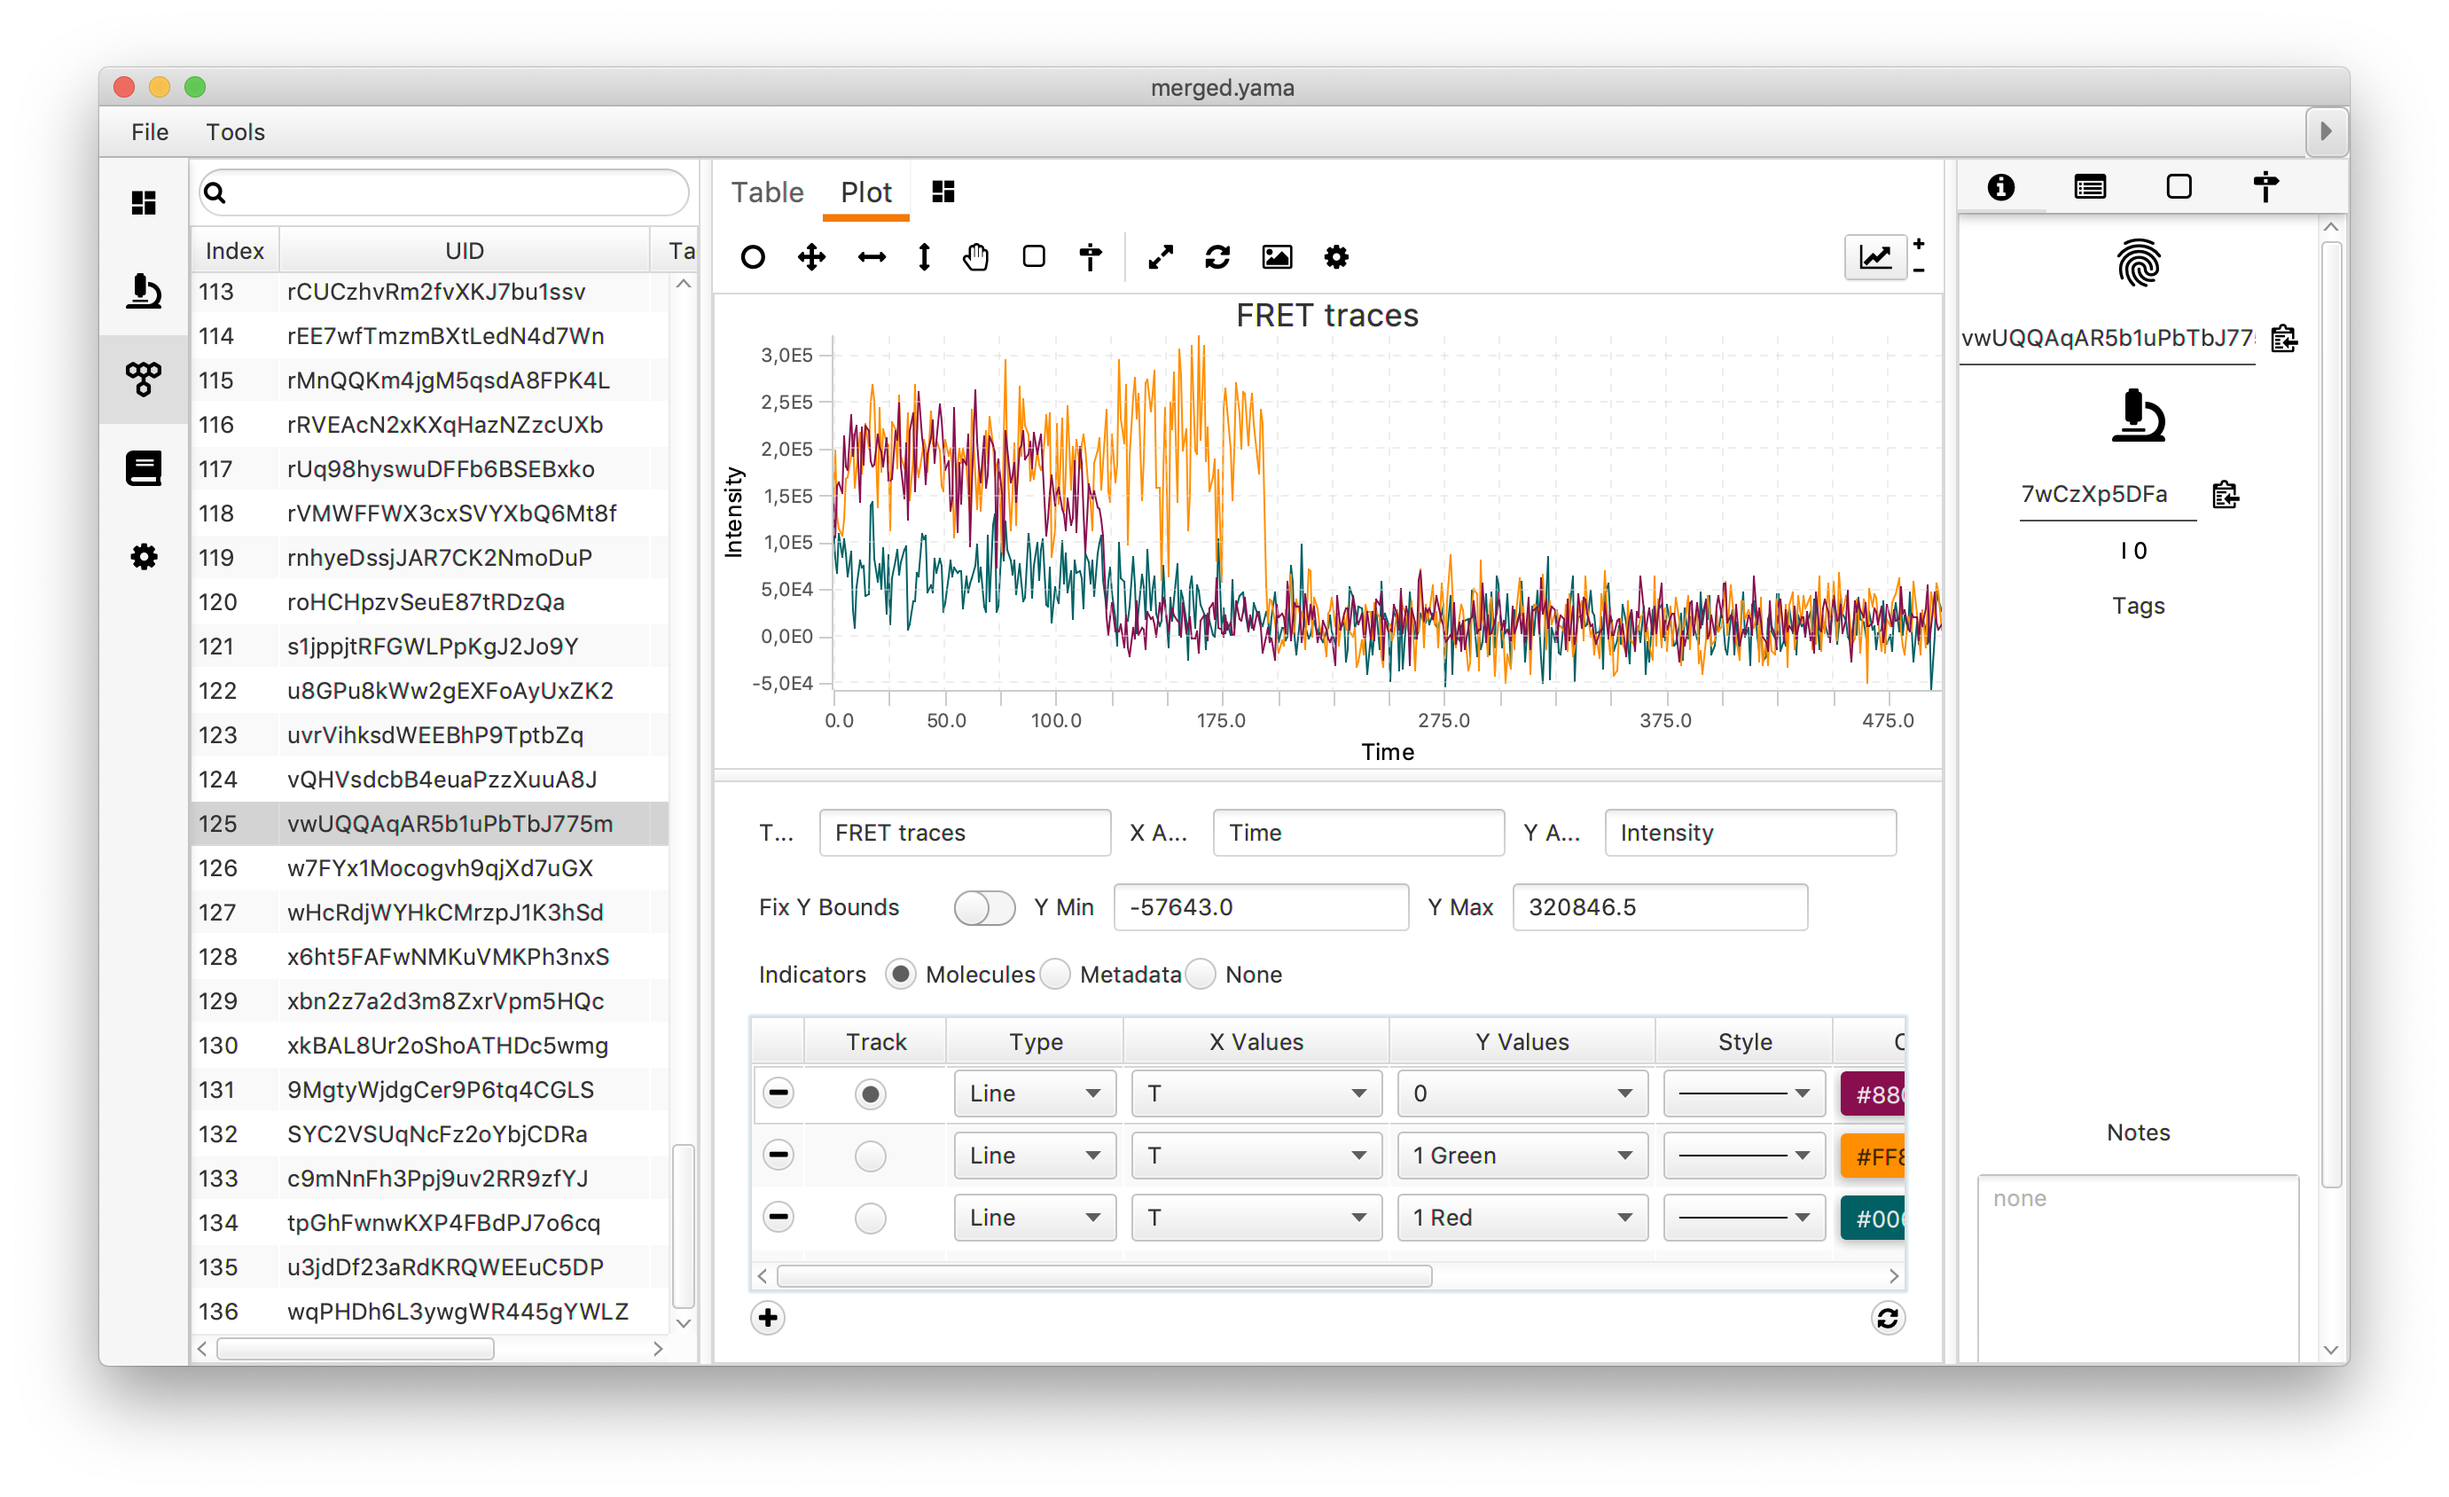
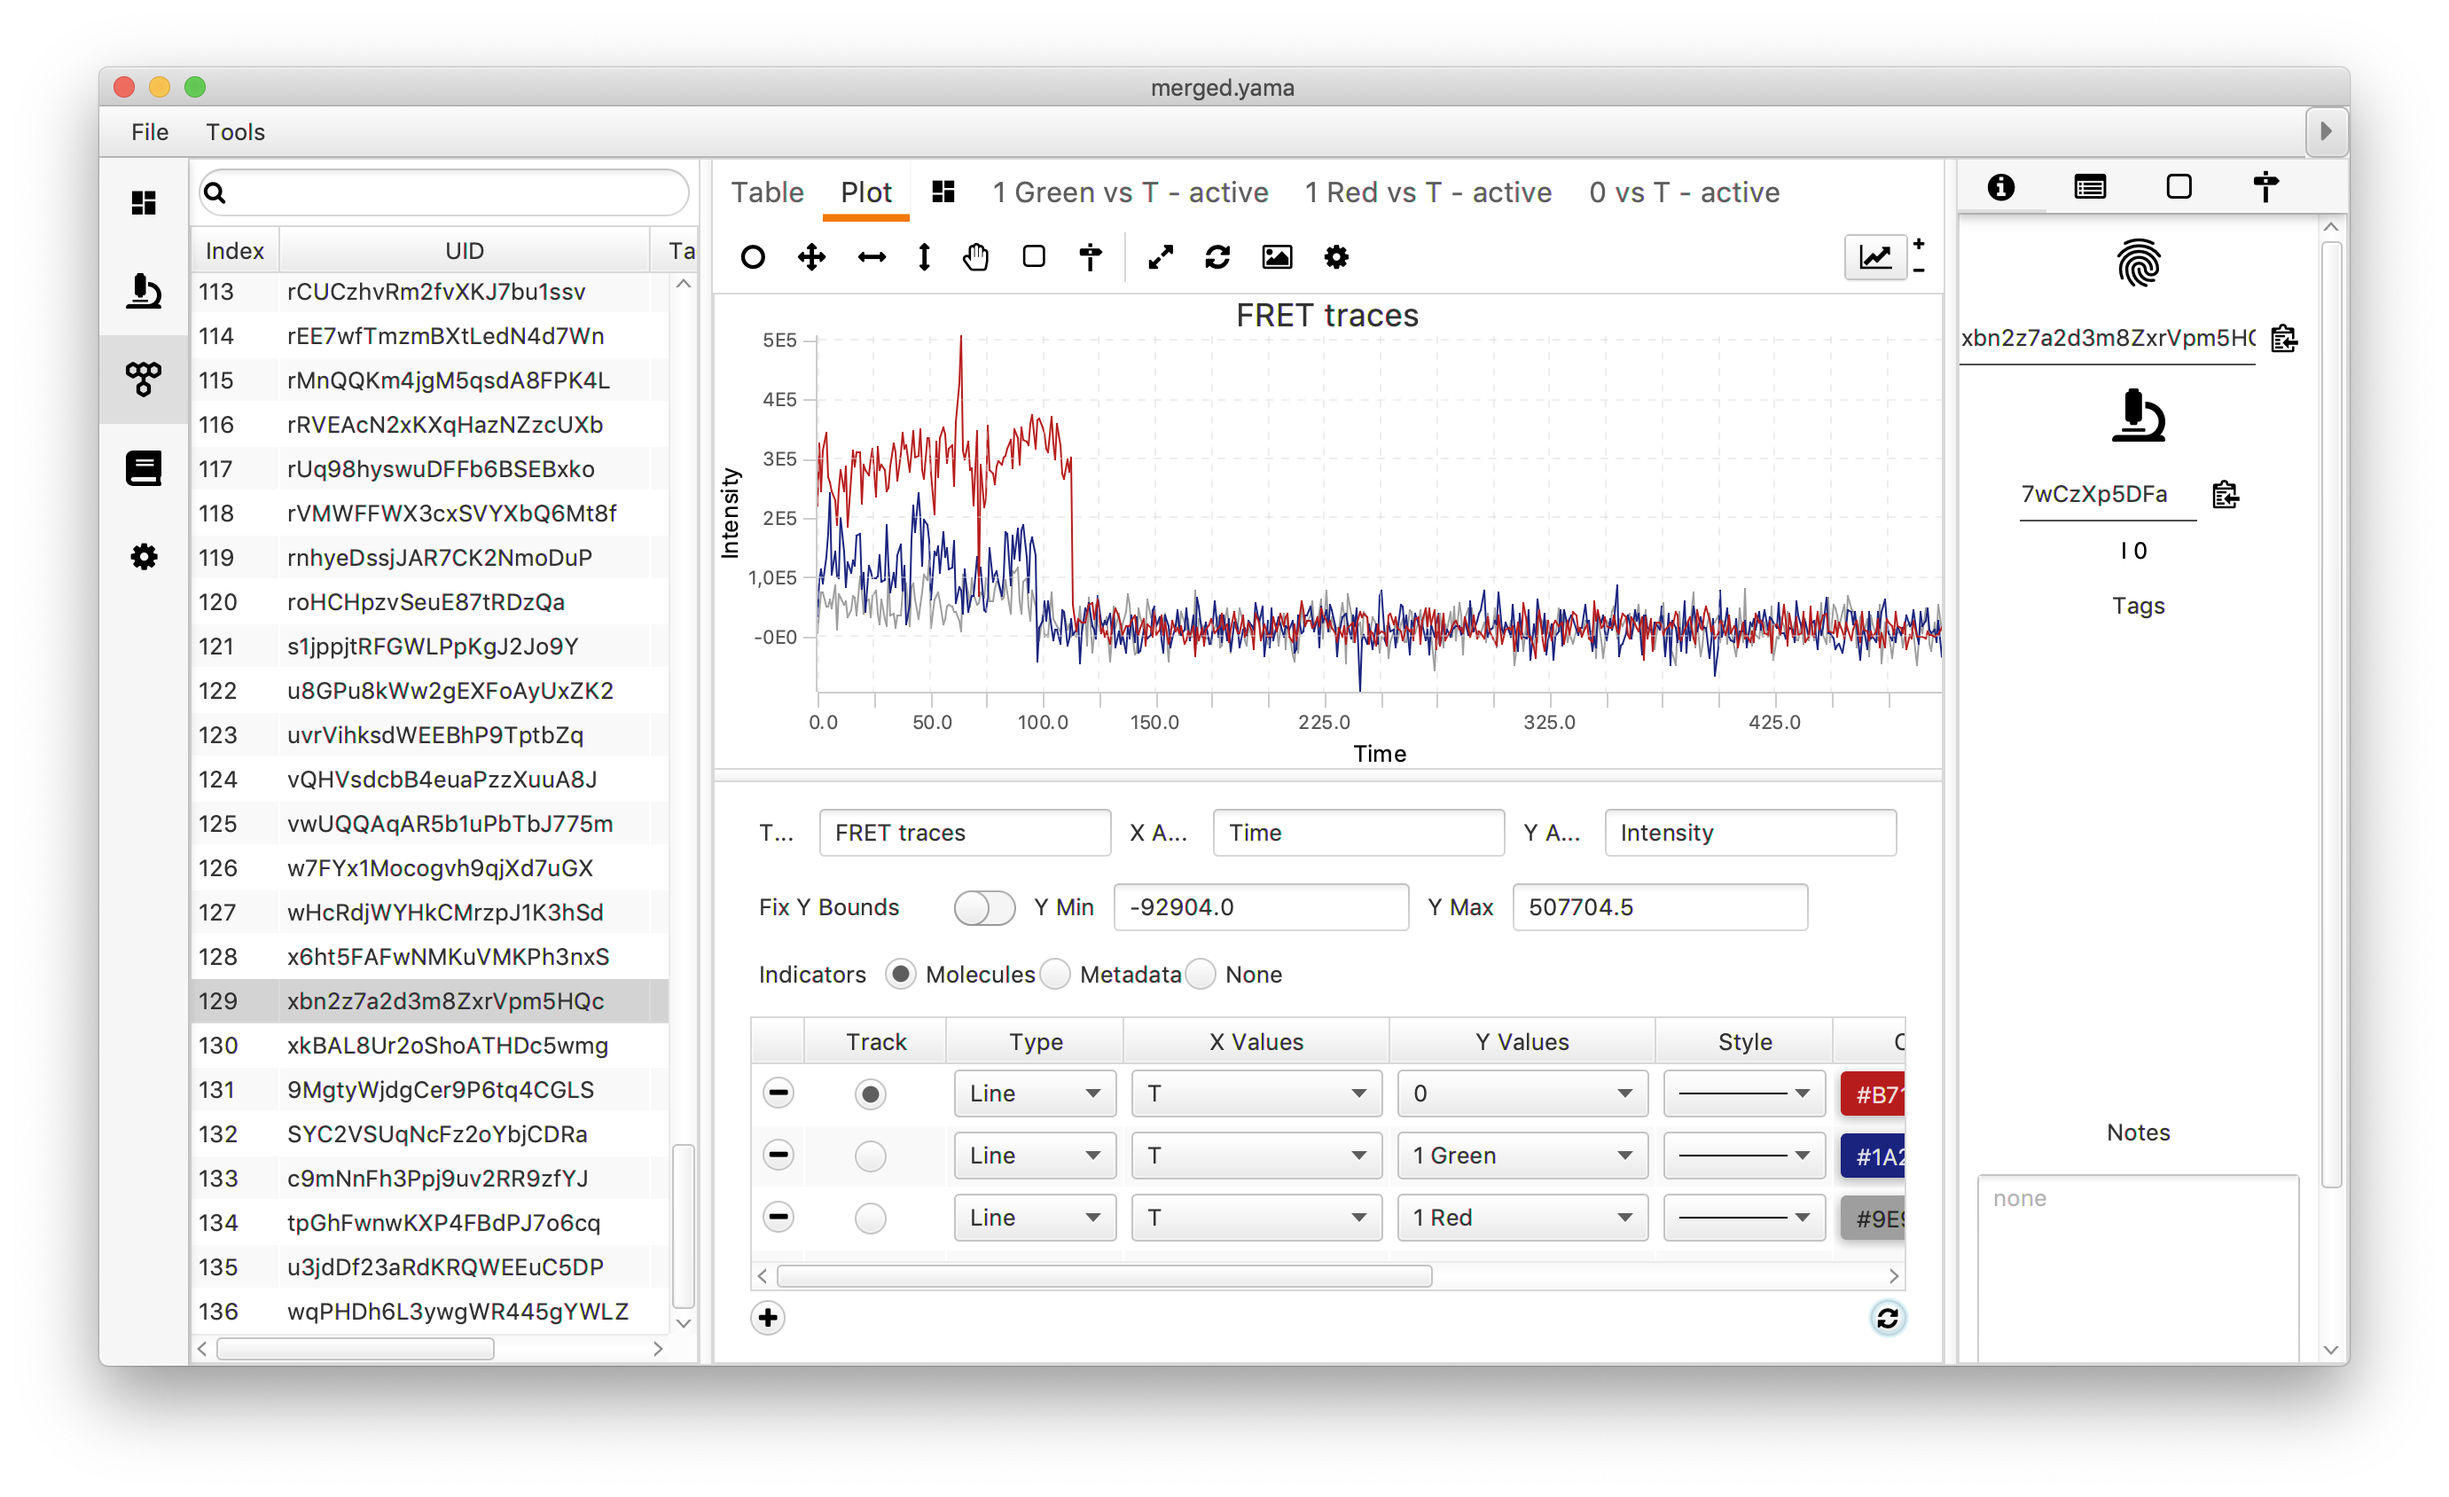
added first steps to the analysis pipeline

diff --git a/examples/fret.md b/examples/fret.md
@@ -63,12 +63,12 @@ Important features:
 
 #### <a name="2"></a> Data preparation - Calculation of the Affine2D matrix
 
-- link to Affine2D tutorial
+- [Affine2D tutorial](https://duderstadt-lab.github.io/mars-docs/tutorials/affine2D/HowToCalculateAffine2D/)
 - short intro on why and what we calculate
 - why do we need to calculate the matrix in both directions
 - Follow along or use the matrix supplied below
 
-To calculate the Affine2D matrix open the file ['calib20140405_0.tif']() from the calibration fo (T) stack. Since the beads used in this calibration measurement are fluorescent at both measured wavelengths their position matches between both halves of the split view. Therefore this video can be used to calculate the Affine2D transformation matrix between the halves. To do so, select a time point of choice and duplicate the frame twice (Image>Duplicate). This will create two images of the video at the same time point. Rename the images 'left' and 'right' and in each image black out the respective halve of the view by selecting that region with the square ROI tool and pressing delete. This will result in a set of images resembling the ones in the screenshot below.
+To calculate the Affine2D matrix open the file ['calib20140405_0.tif']() from the calibration folder. Since the beads used in this calibration measurement are fluorescent at both measured wavelengths their position matches between both halves of the split view. Therefore this video can be used to calculate the Affine2D transformation matrix between the halves. To do so, select a time point of choice and duplicate the frame twice (Image>Duplicate). This will create two images of the video at the same time point. Rename the images 'left' and 'right' and in each image black out the respective halve of the view by selecting that region with the square ROI tool and pressing delete. This will result in a set of images resembling the ones in the screenshot below.
 
 <div style="text-align: center">
 <img align='center' src='{{site.baseurl}}/examples/img/fret/img1.png' width='450'></div>
@@ -79,14 +79,15 @@ Next, open the registration tool (Plugins>Registration>Descriptor-based registra
 <img align='center' src='{{site.baseurl}}/examples/img/fret/img3.png' width='450'></div>
 
 The following values were found: (note that matrices calculated at a different T or with different settings can result in slightly different values)
-|      | Left to Right matrix     | Right to Left matrix |
-| :------------- | :------------- | : ------ |
-| m00       | 0.986       | 1.014 |
-| m01       | 0           | 0     |
-| m02       | 268.639     | -272.404|
-| m10       | 0           | 0.004 |
-| m11       | 0.993       | 1.007 |
-| m12       | 1.170       | -2.299|
+
+|                 | Left to Right matrix     | Right to Left matrix |
+| :-------------  | :------------- | : ------ |
+| m00             | 0.986          | 1.014 |
+| m01             | 0              | 0     |
+| m02             | 268.639        | -272.404|
+| m10             | 0              | 0.004 |
+| m11             | 0.993          | 1.007 |
+| m12             | 1.170          | -2.299|
 
 
 #### <a name="3"></a> Localization and Intensity vs. T traces
@@ -95,23 +96,23 @@ To calculate all FRET parameters and correction factors three different populati
 All three archives are created following the same pipeline: peak identification, ROI transformation to the other halve of the split view, ROI filtering and finally molecule integration to obtain intensity vs. T traces. Below, the pipeline to create the FRET archive is shown accompanied by screenshots. Please reference table 1 to repeat the archive creation also for the AO and DO archives. Alternatively, these archives can be downloaded from the [repository]().
 
 ##### The FRET Archive
-**1. Identify the peaks in the red channel**
+**1. Identify the peaks in the red channel**  
 To find the peaks in the left part of the split view in the red channel first select this part of the screen with the box ROI tool and open the Peak Finder (Plugins>Mars>Image>Peak Finder). Apply the settings as shown below and check if the peaks are identified correctly by pressing the preview button. If the correct settings are applied the peaks should have an identification marker (circle or point) on them. Press ok to apply the settings and add the ROIs of the identified peaks to the ROI manager. The ROI manager will open and will display the peaks listed by their UUID in the manager.
 
 <div style="text-align: center">
 <img align='center' src='{{site.baseurl}}/examples/img/fret/img4.png' width='450'></div>
 <div style="text-align: center">
-<img align='center' src='{{site.baseurl}}/examples/img/fret/img5.png' width='450'></div>
+<img align='center' src='{{site.baseurl}}/examples/img/fret/img5.png' width='250'></div>
 
-**2. Transform  the ROIs to the right part of the split view**
+**2. Transform  the ROIs to the right part of the split view**  
 Next, transform the ROIs to the right part of the split view by using the Transform ROI tool (Plugins>Mars>ROI>Transform ROIs). Use the Affine2D matrix (left to right) as calculated before. Press ok to find the transformed ROIs in the ROI manager as UUID_short and UUID_long entries.
 
 <div style="text-align: center">
 <img align='center' src='{{site.baseurl}}/examples/img/fret/img6.png' width='450'></div>
 <div style="text-align: center">
-<img align='center' src='{{site.baseurl}}/examples/img/fret/img7.png' width='450'></div>
+<img align='center' src='{{site.baseurl}}/examples/img/fret/img7.png' width='250'></div>
 
-**3. Apply the molecule integrator to extract I vs. T traces**
+**3. Apply the molecule integrator to extract I vs. T traces**  
 Integrate the peaks using the molecule integrator tools developed for dual view microscopy data (Plugins>Mars>Image>Molecule Integrator (dualview)). Provide the split view dimensions as shown in the screenshot and apply the 'colocalize' filter to only include peaks that are found both in red and green. For channel 0 select to only integrate the peaks in red (long) and in channel 1 integrate the peaks in both colors (both). Press ok and the archive will open automatically upon completion of the calculation.
 
 <div style="text-align: center">
@@ -124,7 +125,7 @@ Integrate the peaks using the molecule integrator tools developed for dual view 
 | :------------- | :------------- | :------------- | :------------- |
 | Molecule      | figure of DNA       | figure of DNA       | figure of DNA       |
 | What to measure | Intensity of fluorescence in red upon red excitation, Intensity of fluorescence in green upon green excitation, Intensity of fluorescence in red upon green excitation (FRET)  | Intensity of fluorescence in red upon red excitation, Leaking fluorescence to the green channel upon red excitation, Leaking fluorescence to the red channel when excited with green  | Leaking fluorescence of red upon green excitation, Intensity of fluorescence in green upon green excitation  |
-| Parameter names  | I<sub>aemaex</sub>, I<sub>demdex</sub> & I<sub>aemdex</sub>  | I</sub>aemaex</sub><sup>AO</sup>, I<sub>demdex</sub><sup>AO</sup> & I<sub>aemdex</sub><sup>AO</sup>  |  I<sub>aemdex</sub><sup>DO</sup> & I<sub>demdex</sub><sup>DO</sup> |
+| Parameter names  | I<sub>aemaex</sub>, I<sub>demdex</sub> & I<sub>aemdex</sub>  | I<sub>aemaex</sub><sup>AO</sup>, I<sub>demdex</sub><sup>AO</sup> & I<sub>aemdex</sub><sup>AO</sup>  |  I<sub>aemdex</sub><sup>DO</sup> & I<sub>demdex</sub><sup>DO</sup> |
 | Analysis procedure  | Find peaks in red, Transform ROIs (L->R) to colocalize (C=1), Molecule integrator (C=0 long, 1 both)  | Find peaks in red, Transform ROIs (L->R) to filter out colocalizing peaks (C=1), Molecule integrator (C=0 long, 1 both)  | Find peaks in green, Transform ROIs (R->L) to filter out colocalizing peaks (C=0), Molecule integrator (C=1 both)  |
 
 <div style="text-align: center">
@@ -138,10 +139,25 @@ Table 1: Overview of the three different archives that are created in this step 
 To make the downstream processing procedure easier the next step is to tag the created archives accordingly and merge them to form one big archive. Use the tag function in the metadata tab to assign the tags 'FRET', 'AO' & 'DO' accordingly and save the archives in the same folder. Next select the merge archives tool (Plugins>Mars>Molecule>Merge Archive) and select the folder. When the command is finished a merged archive is created that can be found in the selected folder. Open the archive.
 
 ##### Plot the Traces to do a Visual Inspection
-To do a visual inspection of the identified traces open the plot window in the molecules tab and add three line plots representing the three measured intensities (I<sub>aemaex</sub>, I<sub>demdex</sub> & I<sub>aemdex</sub>), if applicable, for each molecule. In the screenshot below the purple line represents I<sub>aemaex</sub>, the yellow line I<sub>aemdex</sub>, and the green line I<sub>demdex</sub>.
+To do a visual inspection of the identified traces open the plot window in the molecules tab and add three line plots representing the three measured intensities (I<sub>aemaex</sub>, I<sub>demdex</sub> & I<sub>aemdex</sub>), if applicable, for each molecule. In the screenshot below the red line represents I<sub>aemaex</sub>, the grey line I<sub>aemdex</sub>, and the blue line I<sub>demdex</sub>.
+
+<div style="text-align: center">
+<img align='center' src='{{site.baseurl}}/examples/img/fret/img9.png' width='450'></div>
 
 
 #### <a name="4"></a> Filter Traces to only have 1 Donor and/or Acceptor
+In the next step, the identified traces will be filtered for having only 1 donor and/or acceptor instead of multiple. This removes molecules from the analysis that might have clumped together therefore showing the presence of multiple fluorophores at one location. This prevents bias in the calculation of the FRET parameters caused by unjustified intensity values.
+
+First, assign a global (metadata) region for the interval 2<T<500 named 'active' to all metadata records. By analyzing this region of the data only the first frames displaying drastic intensity differences are removed from further analysis.
+Next, identify the bleaching steps in each trace using the 'change point finder' tool (Plugins>Mars>KCP>Change Point Finder). Apply the settings as shown below. Repeat this step for all intensity channels (Y column: 1 Green, 1 Red & 0)
+
+<div style="text-align: center">
+<img align='center' src='{{site.baseurl}}/examples/img/fret/img10.png' width='450'></div>
+<div style="text-align: center">
+<img align='center' src='{{site.baseurl}}/examples/img/fret/img11.png' width='450'></div>
+
+The filtering step itself is automized in a [script](). Please [download]() the script and open it in fiji to run in the script editior. For more information on running scripts in Fiji visit the [introduction to Groovy scripting tutorial](https://duderstadt-lab.github.io/mars-docs/tutorials/scripting/introduction-to-groovy-scripting/).
+In short, the script calculates the difference between the measured intensities in the change point analysis and assigns a Boolean parameter to the molecule indicating if this difference is larger than zero (∆I > 0). Next, it evaluates whether a single bleaching step or multiple bleaching steps are observed and assigns this to the Boolean parameters 'Red_singlebleach' and 'Green_singlebleach respectively'. After the declaration of these parameters, the molecules that are part of the FRET archive are tagged. A tag ('Active') is added to the molecule in case bleaching is observed both in red and green, in other cases the tag 'background' is assigned. Subsequently, the tag 'Active_single' is assigned to molecules that show a single bleaching event in both colors.
 
 
 
